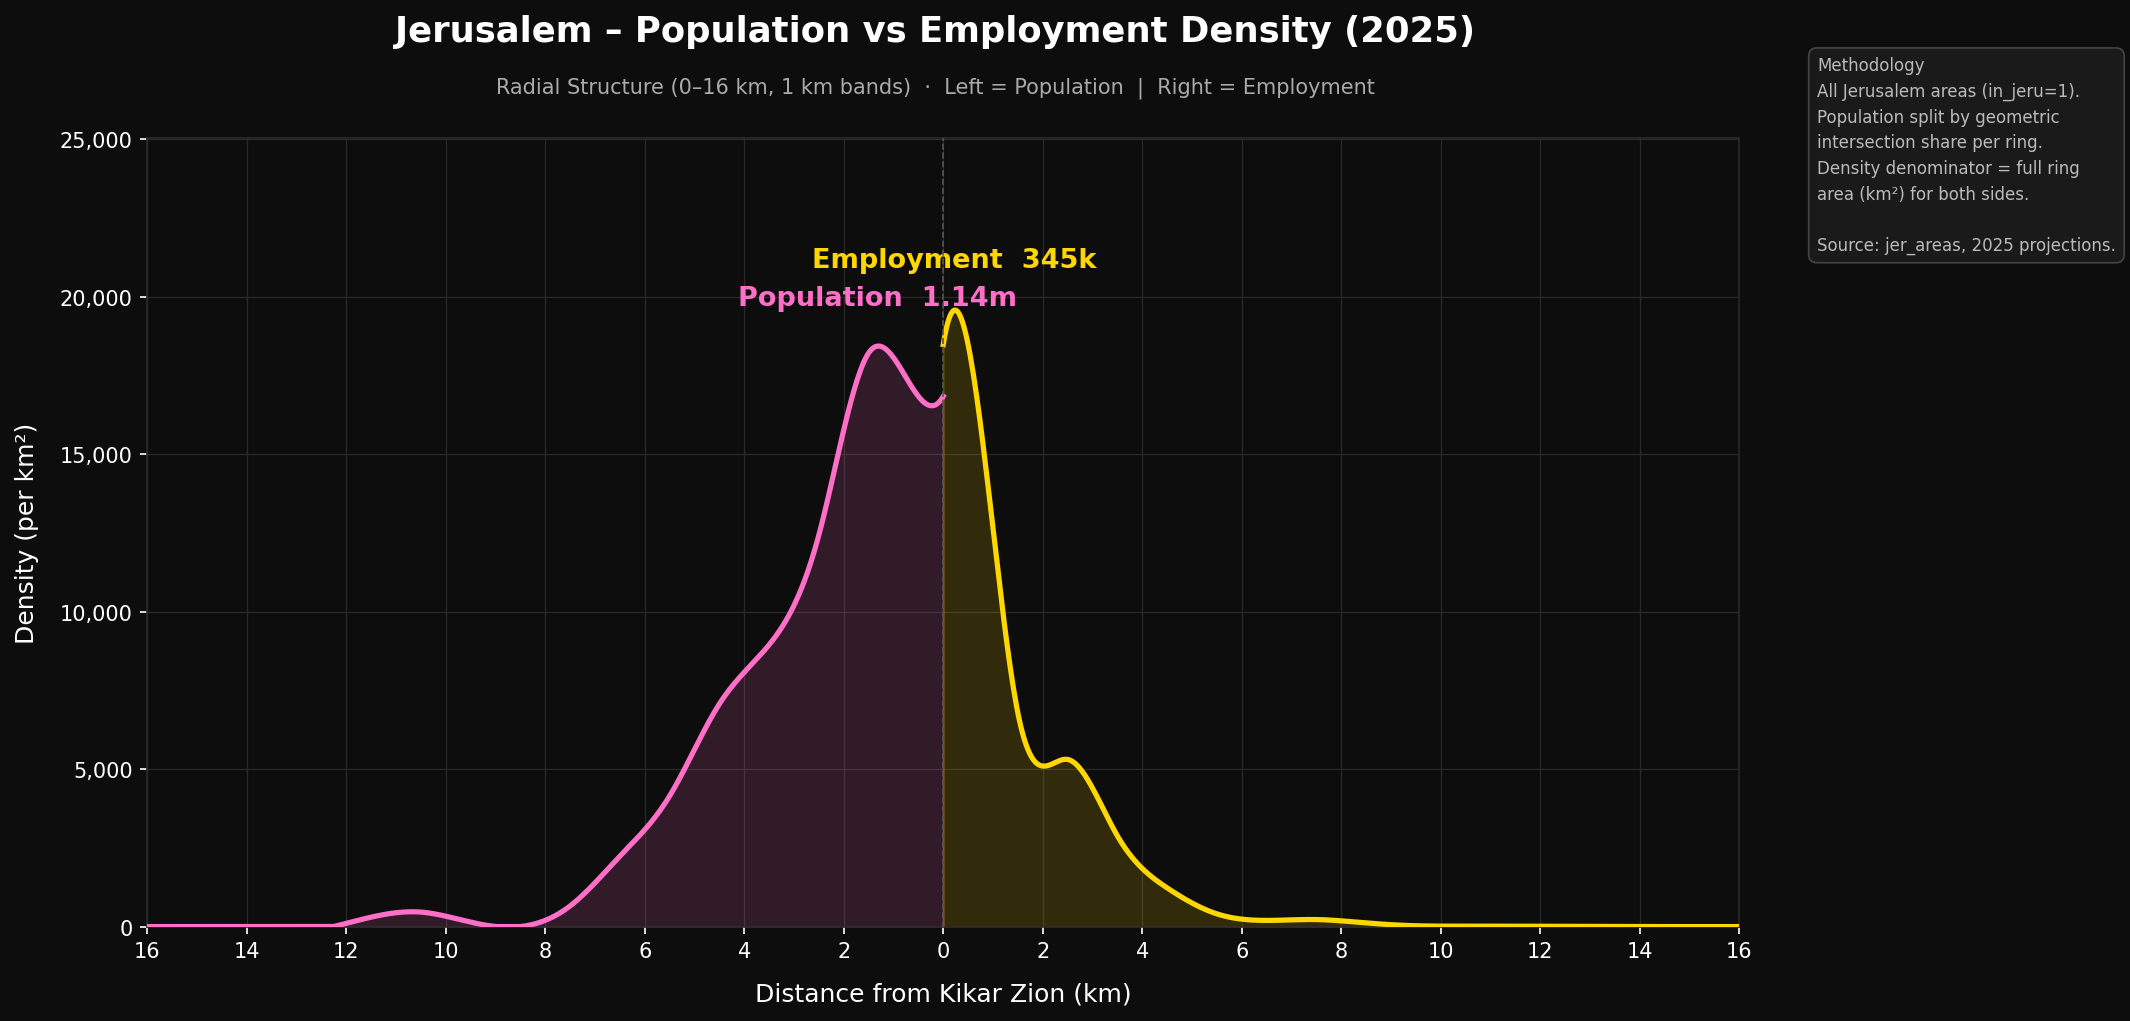
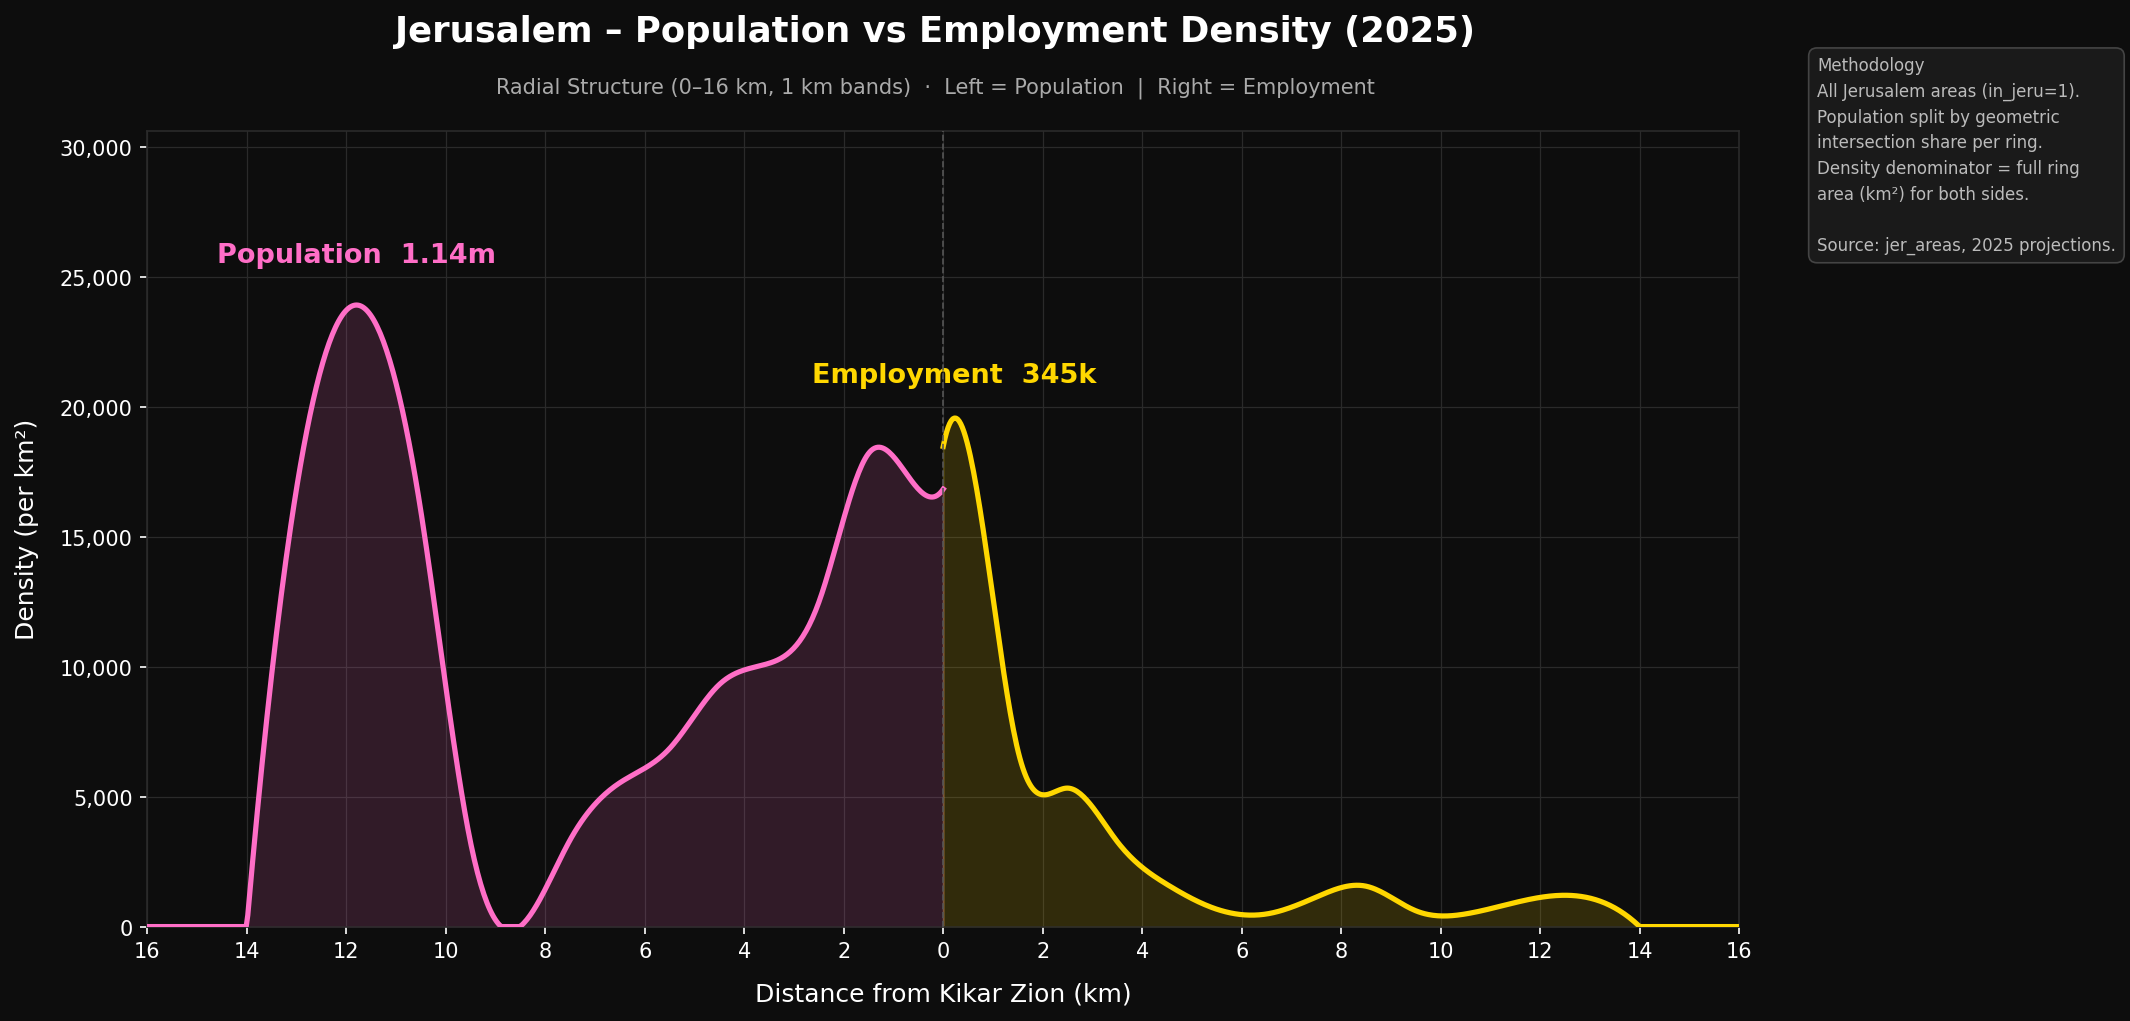
Fix density denominator: use TMP area footprint within each ring
Previously used the full ring donut area (geometric area of the annulus).
Now uses the sum of TMP area intersections within each ring — matching
the numerator calculation — so density = Σ(pop × share) / Σ(area × share).

Outer rings covering non-Jerusalem land (open terrain, West Bank) no longer
dilute density values with uninhabited area.

Applies to: density_profile.py, combined_profile.py, combined_profile_lr.py,
pop_vs_emp_profile.py. Sector-specific scripts were already using their own
sector footprint as denominator.

https://claude.ai/code/session_01Wkc3oYCRGuMqTiP78fZipH

diff --git a/population_figure/density_profile.py b/population_figure/density_profile.py
@@ -58,11 +58,13 @@ for r in range(N_RINGS):
     inner = CENTRE.buffer(r * RING_WIDTH) if r > 0 else None
     _ring_geoms.append(outer if inner is None else outer.difference(inner))
 
-_inter_frac_rings = []   # one array per ring
+_inter_frac_rings    = []   # one array per ring
+_ring_footprint_km2  = []   # TMP area footprint within each ring (density denominator)
 for ring_geom in _ring_geoms:
-    frac = (_areas_raw.geometry.intersection(ring_geom).area
-            / _areas_raw["area_m2"].replace(0, np.nan))
+    inter_area = _areas_raw.geometry.intersection(ring_geom).area
+    frac = inter_area / _areas_raw["area_m2"].replace(0, np.nan)
     _inter_frac_rings.append(frac)
+    _ring_footprint_km2.append(inter_area.sum() / 1e6)
 
 _inter_frac_16km = (_areas_raw.geometry.intersection(BUF16).area
                     / _areas_raw["area_m2"].replace(0, np.nan))
@@ -72,10 +74,9 @@ _inter_frac_16km = (_areas_raw.geometry.intersection(BUF16).area
 def compute_densities(pop_col):
     pop = _areas_raw[pop_col].fillna(0)
     densities = []
-    for r, (ring_geom, frac) in enumerate(zip(_ring_geoms, _inter_frac_rings)):
-        ring_area_km2 = ring_geom.area / 1e6
-        pop_in_ring   = (frac * pop).fillna(0).sum()
-        densities.append(pop_in_ring / ring_area_km2)
+    for r, (frac, foot_km2) in enumerate(zip(_inter_frac_rings, _ring_footprint_km2)):
+        pop_in_ring = (frac * pop).fillna(0).sum()
+        densities.append(pop_in_ring / foot_km2 if foot_km2 > 0 else 0)
     total_pop = (_inter_frac_16km * pop).fillna(0).sum()
     return densities, total_pop
 

diff --git a/population_figure/pop_vs_emp_profile.py b/population_figure/pop_vs_emp_profile.py
@@ -51,11 +51,12 @@ for r in range(N_RINGS):
     inner = centre.buffer(r * RING_WIDTH) if r > 0 else None
     ring_geoms.append(outer if inner is None else outer.difference(inner))
 
-inter_fracs = [
-    areas.geometry.intersection(g).area / areas["area_m2"].replace(0, np.nan)
-    for g in ring_geoms
-]
-ring_areas_km2 = [g.area / 1e6 for g in ring_geoms]
+inter_fracs = []
+ring_footprint_km2 = []
+for g in ring_geoms:
+    inter_area = areas.geometry.intersection(g).area
+    inter_fracs.append(inter_area / areas["area_m2"].replace(0, np.nan))
+    ring_footprint_km2.append(inter_area.sum() / 1e6)
 
 inter_frac_16 = (
     areas.geometry.intersection(centre.buffer(MAX_DIST)).area
@@ -67,8 +68,10 @@ midpoints = np.array([(r + 0.5) * (RING_WIDTH / 1000) for r in range(N_RINGS)])
 
 def ring_densities(col):
     vals = areas[col].fillna(0)
-    dens = [(frac * vals).fillna(0).sum() / km2
-            for frac, km2 in zip(inter_fracs, ring_areas_km2)]
+    dens = [
+        (frac * vals).fillna(0).sum() / foot_km2 if foot_km2 > 0 else 0
+        for frac, foot_km2 in zip(inter_fracs, ring_footprint_km2)
+    ]
     total = (inter_frac_16 * vals).fillna(0).sum()
     return dens, total
 

diff --git a/population_figure/combined_profile.py b/population_figure/combined_profile.py
@@ -51,10 +51,12 @@ for r in range(N_RINGS):
     inner = centre.buffer(r * RING_WIDTH) if r > 0 else None
     ring_geoms.append(outer if inner is None else outer.difference(inner))
 
-inter_frac_rings = [
-    areas.geometry.intersection(g).area / areas["area_m2"].replace(0, np.nan)
-    for g in ring_geoms
-]
+inter_frac_rings = []
+ring_footprint_km2 = []
+for g in ring_geoms:
+    inter_area = areas.geometry.intersection(g).area
+    inter_frac_rings.append(inter_area / areas["area_m2"].replace(0, np.nan))
+    ring_footprint_km2.append(inter_area.sum() / 1e6)
 inter_frac_16 = (
     areas.geometry.intersection(centre.buffer(MAX_DIST)).area
     / areas["area_m2"].replace(0, np.nan)
@@ -75,8 +77,8 @@ for cfg in YEARS:
     pop     = areas[pop_col].fillna(0)
 
     densities = [
-        (frac * pop).fillna(0).sum() / (g.area / 1e6)
-        for frac, g in zip(inter_frac_rings, ring_geoms)
+        (frac * pop).fillna(0).sum() / foot_km2 if foot_km2 > 0 else 0
+        for frac, foot_km2 in zip(inter_frac_rings, ring_footprint_km2)
     ]
     total_pop = (inter_frac_16 * pop).fillna(0).sum()
     pop_label = f"{total_pop / 1e6:.2f}m"

diff --git a/population_figure/combined_profile_lr.py b/population_figure/combined_profile_lr.py
@@ -50,10 +50,12 @@ for r in range(N_RINGS):
     inner = centre.buffer(r * RING_WIDTH) if r > 0 else None
     ring_geoms.append(outer if inner is None else outer.difference(inner))
 
-inter_fracs = [
-    areas.geometry.intersection(g).area / areas["area_m2"].replace(0, np.nan)
-    for g in ring_geoms
-]
+inter_fracs = []
+ring_footprint_km2 = []
+for g in ring_geoms:
+    inter_area = areas.geometry.intersection(g).area
+    inter_fracs.append(inter_area / areas["area_m2"].replace(0, np.nan))
+    ring_footprint_km2.append(inter_area.sum() / 1e6)
 inter_frac_16 = (
     areas.geometry.intersection(centre.buffer(MAX_DIST)).area
     / areas["area_m2"].replace(0, np.nan)
@@ -63,8 +65,10 @@ rw = RING_WIDTH / 1000
 
 def ring_densities(pop_col):
     pop = areas[pop_col]
-    dens = [(frac * pop).fillna(0).sum() / (g.area / 1e6)
-            for frac, g in zip(inter_fracs, ring_geoms)]
+    dens = [
+        (frac * pop).fillna(0).sum() / foot_km2 if foot_km2 > 0 else 0
+        for frac, foot_km2 in zip(inter_fracs, ring_footprint_km2)
+    ]
     total = (inter_frac_16 * pop).fillna(0).sum()
     return dens, total
 
